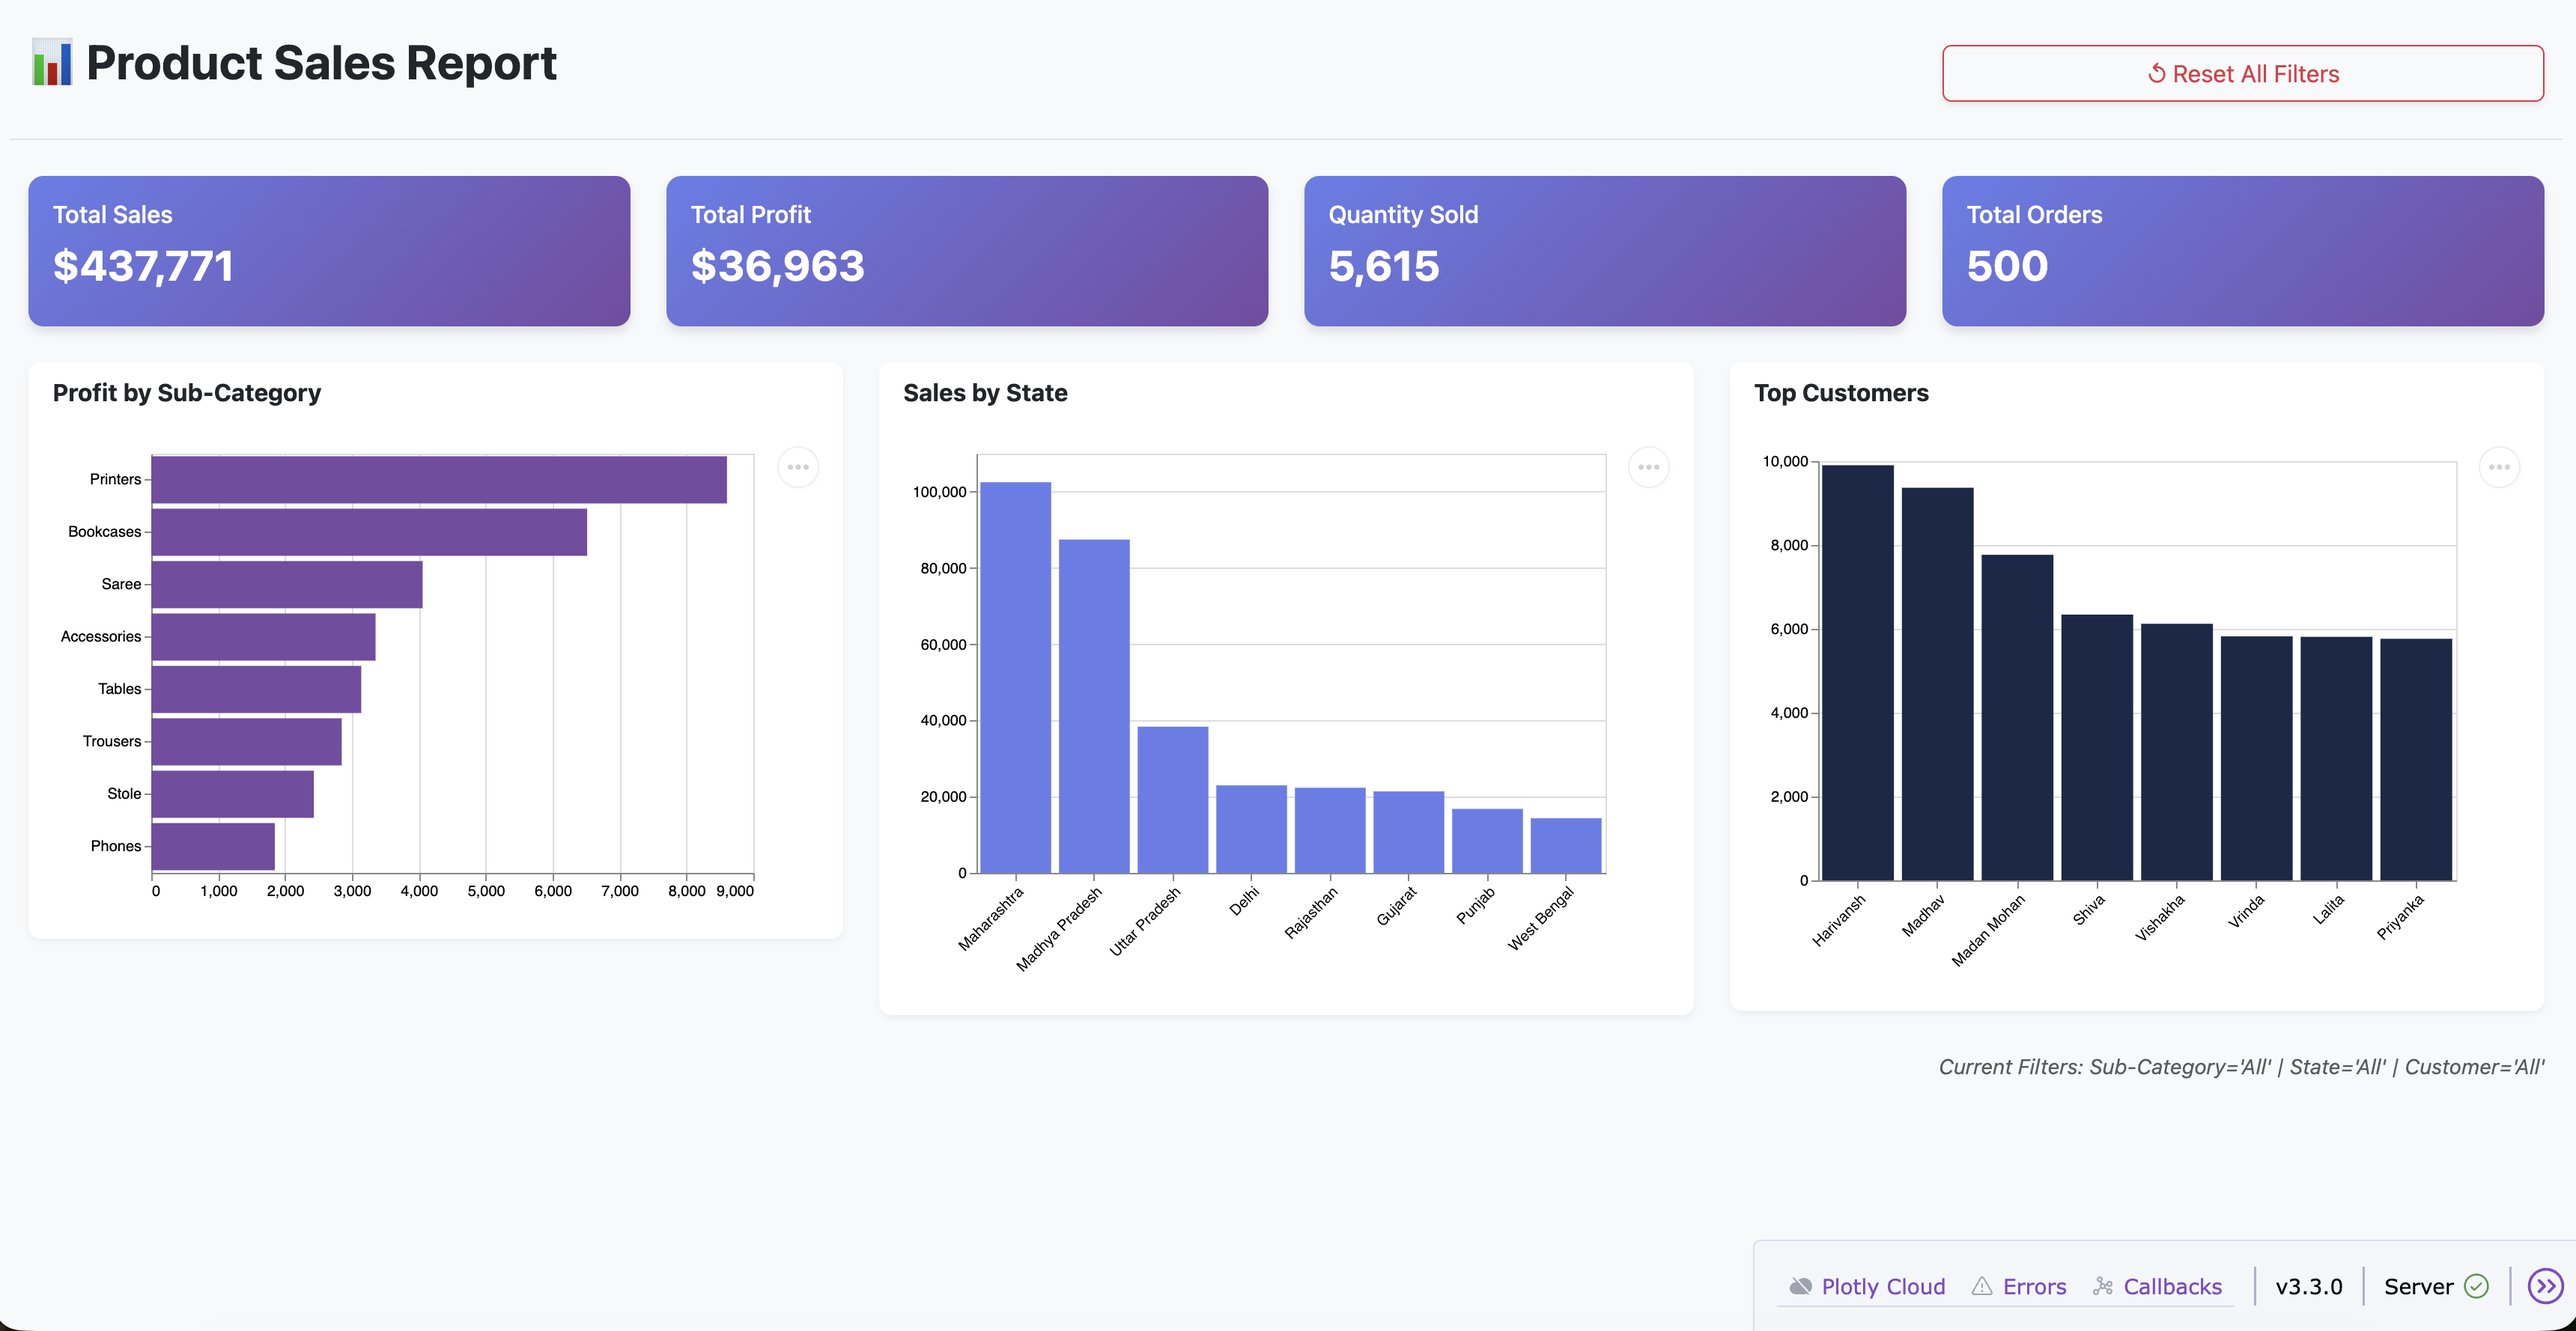
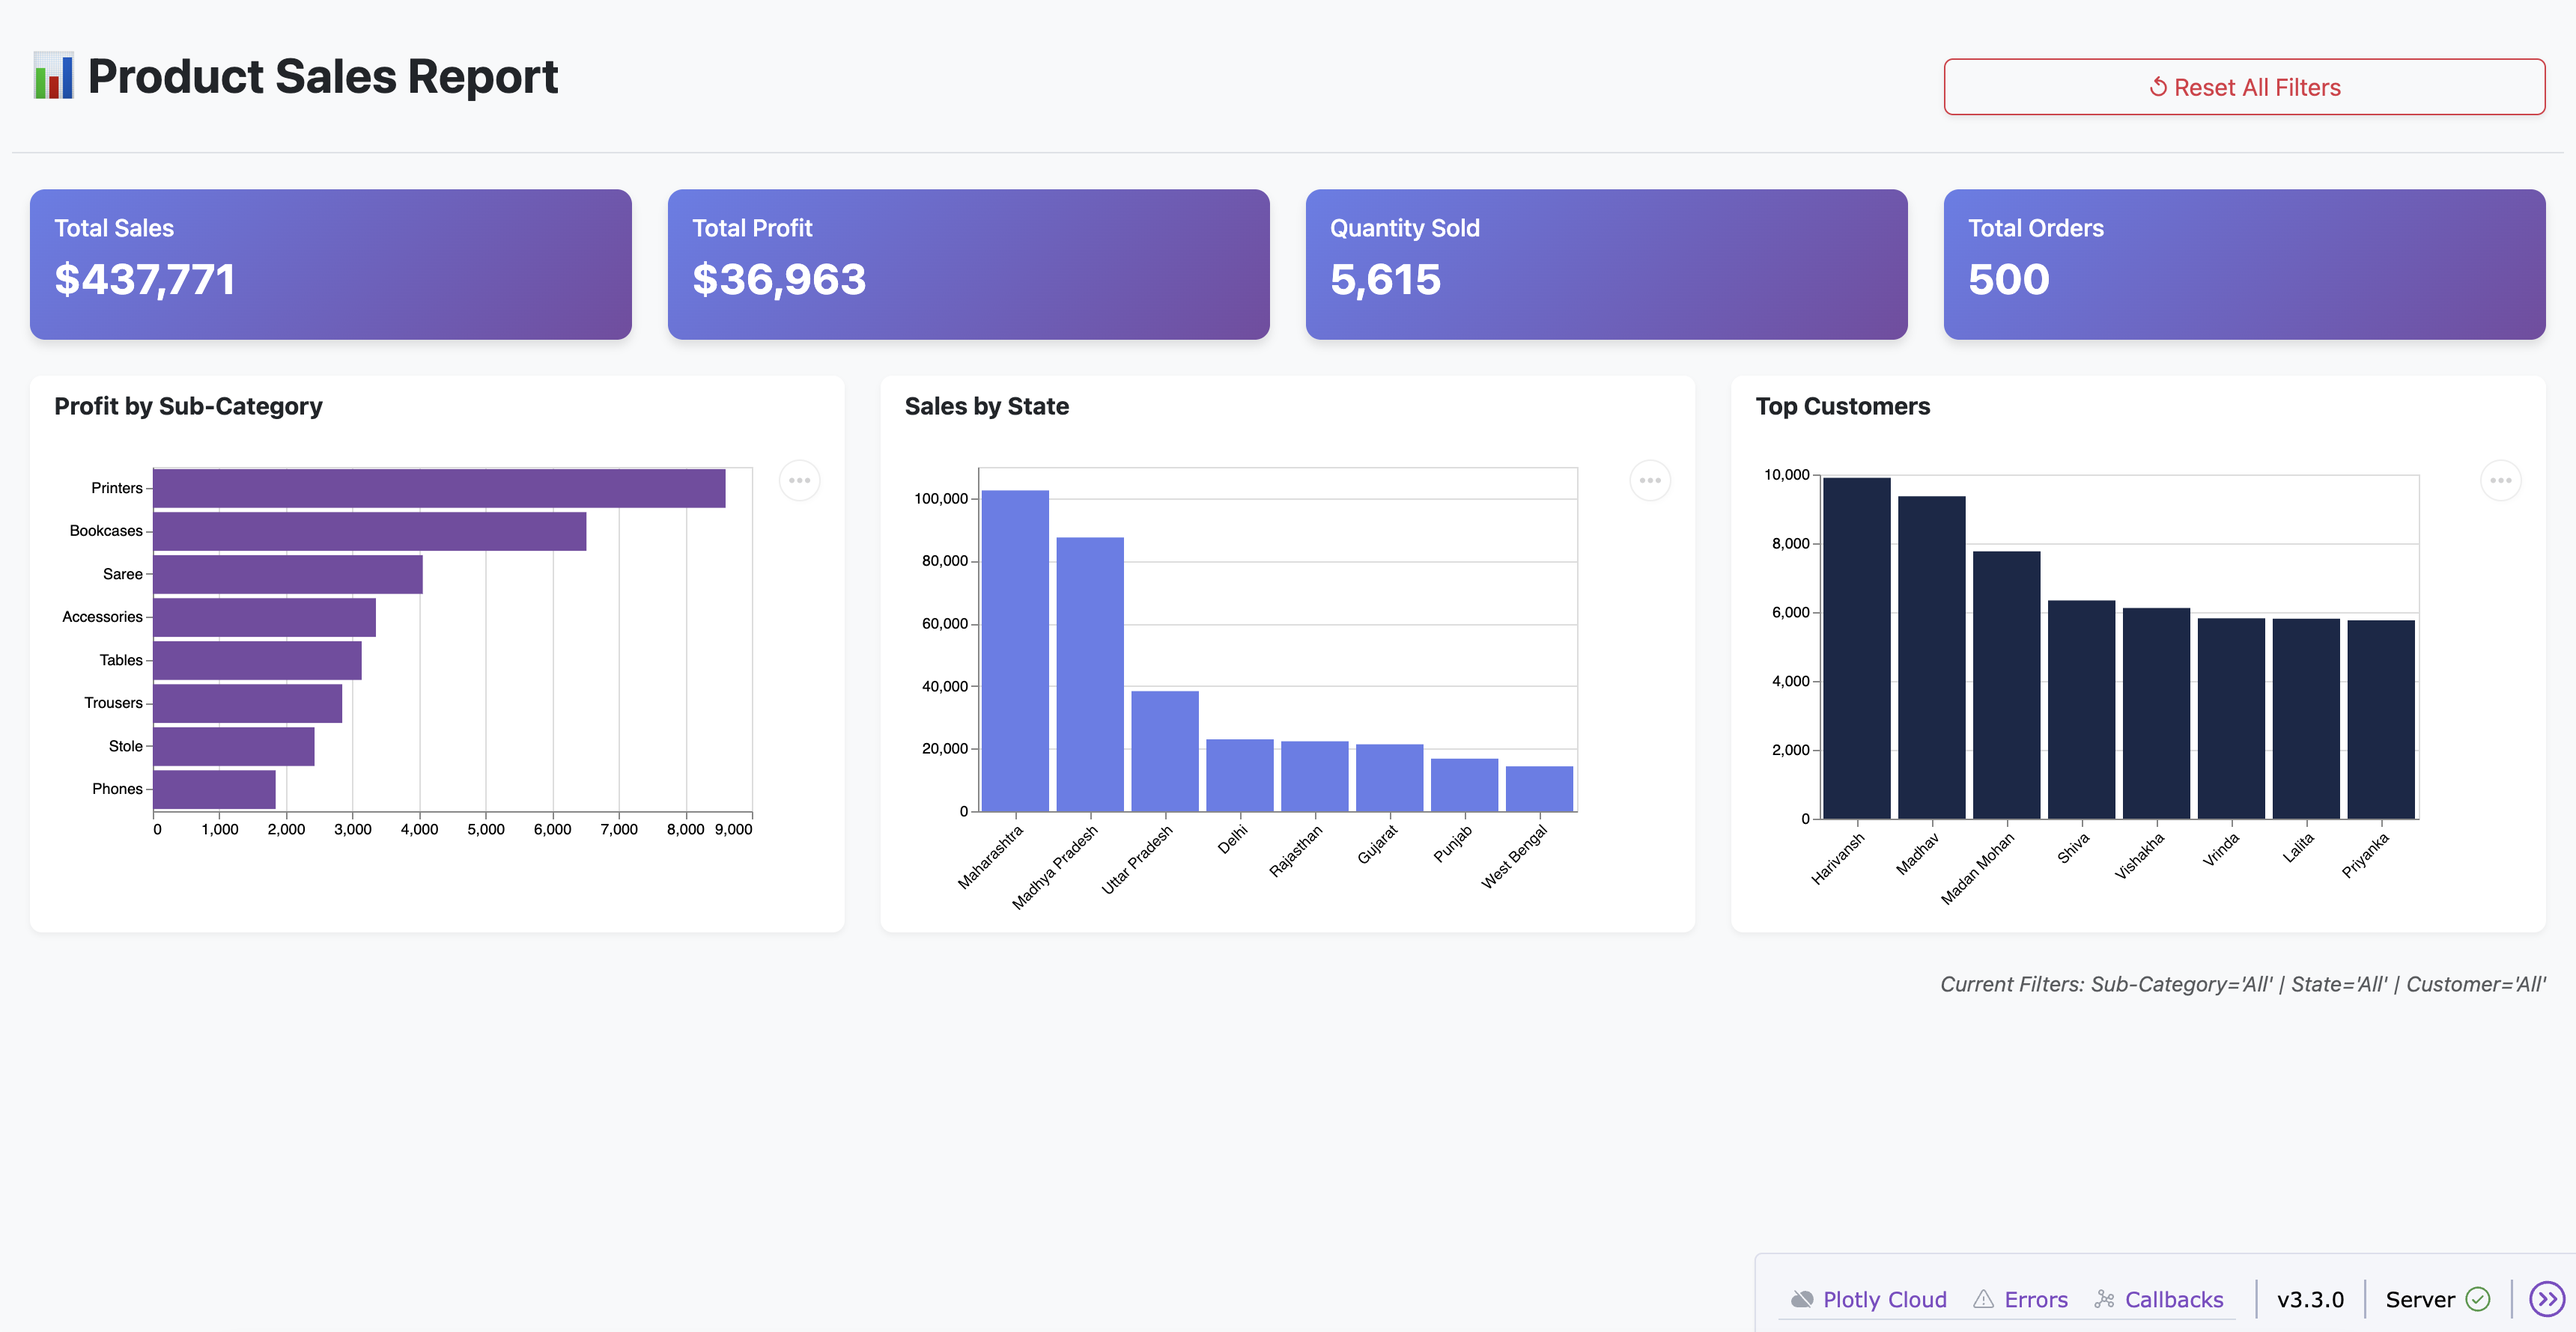
add files

diff --git a/app_cross_filter_vega_state_management.py.py b/app_cross_filter_vega_state_management.py.py
@@ -2,7 +2,7 @@ import dash
 from dash import dcc, html, Input, Output, State, callback_context
 from dash.exceptions import PreventUpdate
 import dash_bootstrap_components as dbc
-import dash_vega_components as dvc # 核心组件库
+import dash_vega_components as dvc  # 核心组件库
 import altair as alt
 import pandas as pd
 import os
@@ -10,6 +10,8 @@ import os
 # ┌──────────────────────────────────────────────────────────────────────────────┐
 # │ 1. DATA LOADING & PREPROCESSING (与原版保持一致)                              │
 # └──────────────────────────────────────────────────────────────────────────────┘
+
+
 def load_data():
     try:
         # 这里假设你本地有文件，为了演示方便，如果文件不存在，我生成一些模拟数据
@@ -28,8 +30,9 @@ def load_data():
     for col in str_cols:
         if col in df_merged.columns:
             df_merged[col] = df_merged[col].astype(str).str.strip()
-            
+
     return df_merged
+
 
 df = load_data()
 
@@ -51,7 +54,7 @@ CHART_CARD_STYLE = {
     "box-shadow": "0 2px 4px rgba(0,0,0,0.05)",
     "border": "none",
     "border-radius": "8px",
-    "overflow": "hidden" # 防止 Vega 图表溢出
+    "overflow": "hidden"  # 防止 Vega 图表溢出
 }
 
 app.layout = dbc.Container([
@@ -66,19 +69,25 @@ app.layout = dbc.Container([
 
     # ── Header ──
     dbc.Row([
-        dbc.Col(html.H2("📊 Product Sales Report", className="fw-bold my-3"), width=9),
+        dbc.Col(html.H2("📊 Product Sales Report",
+                className="fw-bold my-3"), width=9),
         dbc.Col(
-            dbc.Button("↺ Reset All Filters", id="btn-reset", color="danger", outline=True, className="mt-4 w-100 shadow-sm"),
+            dbc.Button("↺ Reset All Filters", id="btn-reset", color="danger",
+                       outline=True, className="mt-4 w-100 shadow-sm"),
             width=3
         )
     ], className="mb-4 border-bottom pb-3"),
 
     # ── Row 1: KPI Cards (保持不变) ──
     dbc.Row([
-        dbc.Col(dbc.Card(dbc.CardBody([html.H6("Total Sales"), html.H3(id="kpi-amount", className="fw-bold")]), style=KPI_STYLE), width=3),
-        dbc.Col(dbc.Card(dbc.CardBody([html.H6("Total Profit"), html.H3(id="kpi-profit", className="fw-bold")]), style=KPI_STYLE), width=3),
-        dbc.Col(dbc.Card(dbc.CardBody([html.H6("Quantity Sold"), html.H3(id="kpi-quantity", className="fw-bold")]), style=KPI_STYLE), width=3),
-        dbc.Col(dbc.Card(dbc.CardBody([html.H6("Total Orders"), html.H3(id="kpi-orders", className="fw-bold")]), style=KPI_STYLE), width=3),
+        dbc.Col(dbc.Card(dbc.CardBody([html.H6("Total Sales"), html.H3(
+            id="kpi-amount", className="fw-bold")]), style=KPI_STYLE), width=3),
+        dbc.Col(dbc.Card(dbc.CardBody([html.H6("Total Profit"), html.H3(
+            id="kpi-profit", className="fw-bold")]), style=KPI_STYLE), width=3),
+        dbc.Col(dbc.Card(dbc.CardBody([html.H6("Quantity Sold"), html.H3(
+            id="kpi-quantity", className="fw-bold")]), style=KPI_STYLE), width=3),
+        dbc.Col(dbc.Card(dbc.CardBody([html.H6("Total Orders"), html.H3(
+            id="kpi-orders", className="fw-bold")]), style=KPI_STYLE), width=3),
     ], className="mb-4"),
 
     # ── Row 2: Charts (使用 dvc.Vega) ──
@@ -86,24 +95,34 @@ app.layout = dbc.Container([
     dbc.Row([
         # Chart 1
         dbc.Col(dbc.Card([
-            dbc.CardHeader("Profit by Sub-Category", className="bg-white fw-bold border-0"),
-            dbc.CardBody(dvc.Vega(id="chart-subcat", signalsToObserve=["sel_subcat"], style={'width': '100%', 'height': '300px'}))
+            dbc.CardHeader("Profit by Sub-Category",
+                           className="bg-white fw-bold border-0"),
+            dbc.CardBody(dvc.Vega(id="chart-subcat", signalsToObserve=[
+                         "sel_subcat"], style={'width': '100%', 'height': '300px'}),
+                         className="d-flex justify-content-center align-items-center")
         ], style=CHART_CARD_STYLE), width=4),
 
         # Chart 2
         dbc.Col(dbc.Card([
-            dbc.CardHeader("Sales by State", className="bg-white fw-bold border-0"),
-            dbc.CardBody(dvc.Vega(id="chart-state", signalsToObserve=["sel_state"], style={'width': '100%', 'height': '300px'}))
+            dbc.CardHeader("Sales by State",
+                           className="bg-white fw-bold border-0"),
+            dbc.CardBody(dvc.Vega(id="chart-state", signalsToObserve=[
+                         "sel_state"], style={'width': '100%', 'height': '300px'}),
+                         className="d-flex justify-content-center align-items-center")
         ], style=CHART_CARD_STYLE), width=4),
 
         # Chart 3
         dbc.Col(dbc.Card([
-            dbc.CardHeader("Top Customers", className="bg-white fw-bold border-0"),
-            dbc.CardBody(dvc.Vega(id="chart-customer", signalsToObserve=["sel_cust"], style={'width': '100%', 'height': '300px'}))
+            dbc.CardHeader("Top Customers",
+                           className="bg-white fw-bold border-0"),
+            dbc.CardBody(dvc.Vega(id="chart-customer", signalsToObserve=[
+                         "sel_cust"], style={'width': '100%', 'height': '300px'}),
+                         className="d-flex justify-content-center align-items-center")
         ], style=CHART_CARD_STYLE), width=4),
     ]),
-    
-    dbc.Row(dbc.Col(html.Div(id="filter-status", className="text-muted small mt-4 text-end fst-italic")))
+
+    dbc.Row(dbc.Col(html.Div(id="filter-status",
+            className="text-muted small mt-4 text-end fst-italic")))
 
 ], fluid=True, className="bg-light vh-100 p-4")
 
@@ -112,14 +131,14 @@ app.layout = dbc.Container([
 # │ 3. LOGIC PART A: FILTER STATE MANAGEMENT (交互逻辑核心)                       │
 # └──────────────────────────────────────────────────────────────────────────────┘
 @app.callback(
-    [Output('store-subcat', 'data'), 
+    [Output('store-subcat', 'data'),
      Output('store-state', 'data'),
      Output('store-customer', 'data')],
     [Input('btn-reset', 'n_clicks'),
      Input('chart-subcat', 'signalData'),   # 监听 Vega 信号
      Input('chart-state', 'signalData'),
      Input('chart-customer', 'signalData')],
-    [State('store-subcat', 'data'), 
+    [State('store-subcat', 'data'),
      State('store-state', 'data'),
      State('store-customer', 'data')]
 )
@@ -130,7 +149,7 @@ def manage_filters(n_clicks, sig_sub, sig_state, sig_cust, curr_sub, curr_state,
     ctx = callback_context
     if not ctx.triggered:
         return "All", "All", "All"
-    
+
     trigger_id = ctx.triggered[0]['prop_id'].split('.')[0]
 
     # 1. 重置逻辑
@@ -142,13 +161,13 @@ def manage_filters(n_clicks, sig_sub, sig_state, sig_cust, curr_sub, curr_state,
         # 如果 signal_data 是 None 或者没有对应的 signal_name (通常发生在重置图表时)，不做改变
         if not signal_data or signal_name not in signal_data:
             return current_filter
-        
+
         # 获取 Vega 传递过来的数据列表
         # 结构通常是: {'sel_subcat': {'Sub-Category': ['Chairs']}}
         selection_content = signal_data[signal_name]
-        
+
         # 如果列表为空，说明用户点击空白处取消了选择
-        if not selection_content: 
+        if not selection_content:
             # 这是一个策略选择：点击空白处是否重置？通常是的。
             # 但为了配合下方的 Toggle 逻辑，我们这里主要看是否有值。
             # 如果 Altair 的 selection 模式是 toggle，第二次点击会发空列表。
@@ -160,12 +179,13 @@ def manage_filters(n_clicks, sig_sub, sig_state, sig_cust, curr_sub, curr_state,
             if str(current_filter) != "All" and str(clicked_val) == str(current_filter):
                 return "All"
             return clicked_val
-        
+
         return current_filter
 
     # 2. 处理各图表点击
     if trigger_id == 'chart-subcat':
-        new_sub = process_signal(sig_sub, 'sel_subcat', 'Sub-Category', curr_sub)
+        new_sub = process_signal(
+            sig_sub, 'sel_subcat', 'Sub-Category', curr_sub)
         return new_sub, curr_state, curr_cust
 
     if trigger_id == 'chart-state':
@@ -173,7 +193,8 @@ def manage_filters(n_clicks, sig_sub, sig_state, sig_cust, curr_sub, curr_state,
         return curr_sub, new_state, curr_cust
 
     if trigger_id == 'chart-customer':
-        new_cust = process_signal(sig_cust, 'sel_cust', 'CustomerName', curr_cust)
+        new_cust = process_signal(
+            sig_cust, 'sel_cust', 'CustomerName', curr_cust)
         return curr_sub, curr_state, new_cust
 
     return curr_sub, curr_state, curr_cust
@@ -196,7 +217,7 @@ def manage_filters(n_clicks, sig_sub, sig_state, sig_cust, curr_sub, curr_state,
      Input('store-customer', 'data')]
 )
 def update_visuals(sel_sub, sel_state, sel_cust):
-    
+
     # ── 数据过滤 (与原版逻辑一致) ──
     def filter_df(ignore_sub=False, ignore_state=False, ignore_cust=False):
         d = df.copy()
@@ -227,7 +248,7 @@ def update_visuals(sel_sub, sel_state, sel_cust):
         # 数据聚合逻辑保持不变
         group_col = x_col if orientation == 'v' else y_col
         value_col = y_col if orientation == 'v' else x_col
-        
+
         df_g = df_in.groupby(group_col)[value_col].sum().reset_index()
         df_g = df_g.sort_values(value_col, ascending=False).head(8)
 
@@ -242,7 +263,7 @@ def update_visuals(sel_sub, sel_state, sel_cust):
 
         # [关键修复] 2. 定义点击参数时，传入 value
         click_param = alt.selection_point(
-            name=signal_name, 
+            name=signal_name,
             fields=[group_col],
             value=init_value  # <--- 这里是防止弹回的核心！
         )
@@ -255,19 +276,20 @@ def update_visuals(sel_sub, sel_state, sel_cust):
             alt.value(color_low)
         )
         if selected_val == "All":
-             color_condition = alt.value(color_high)
+            color_condition = alt.value(color_high)
 
         # 4. 基础图表构建
         base = alt.Chart(df_g).encode(
             tooltip=[group_col, value_col]
         ).properties(
-            height=280,
-            width='container'
+            height=230,
+            width=400
         )
 
         if orientation == 'v':
             chart = base.mark_bar().encode(
-                x=alt.X(group_col, sort='-y', axis=alt.Axis(labelAngle=-45, title=None)),
+                x=alt.X(group_col, sort='-y',
+                        axis=alt.Axis(labelAngle=-45, title=None)),
                 y=alt.Y(value_col, axis=alt.Axis(title=None)),
                 color=color_condition
             )
@@ -279,24 +301,28 @@ def update_visuals(sel_sub, sel_state, sel_cust):
             )
 
         chart = chart.add_params(click_param)
-        
+
         return chart.to_dict()
 
     # Chart 1: Sub-Category (水平, 紫色)
     df_sub = filter_df(ignore_sub=True)
-    fig_sub = build_altair_chart(df_sub, "Profit", "Sub-Category", sel_sub, "sel_subcat", 'h', '#764ba2')
+    fig_sub = build_altair_chart(
+        df_sub, "Profit", "Sub-Category", sel_sub, "sel_subcat", 'h', '#764ba2')
 
     # Chart 2: State (垂直, 蓝色)
     df_state = filter_df(ignore_state=True)
-    fig_state = build_altair_chart(df_state, "State", "Amount", sel_state, "sel_state", 'v', '#667eea')
+    fig_state = build_altair_chart(
+        df_state, "State", "Amount", sel_state, "sel_state", 'v', '#667eea')
 
     # Chart 3: Customer (垂直, 深蓝)
     df_cust = filter_df(ignore_cust=True)
-    fig_cust = build_altair_chart(df_cust, "CustomerName", "Amount", sel_cust, "sel_cust", 'v', '#182848')
+    fig_cust = build_altair_chart(
+        df_cust, "CustomerName", "Amount", sel_cust, "sel_cust", 'v', '#182848')
 
     status_text = f"Current Filters: Sub-Category='{sel_sub}' | State='{sel_state}' | Customer='{sel_cust}'"
 
-    return k_amt, k_prof, k_qty, k_ords, fig_sub, fig_state, fig_cust, status_text 
+    return k_amt, k_prof, k_qty, k_ords, fig_sub, fig_state, fig_cust, status_text
+
 
 if __name__ == "__main__":
     app.run(debug=True, port=8081)
